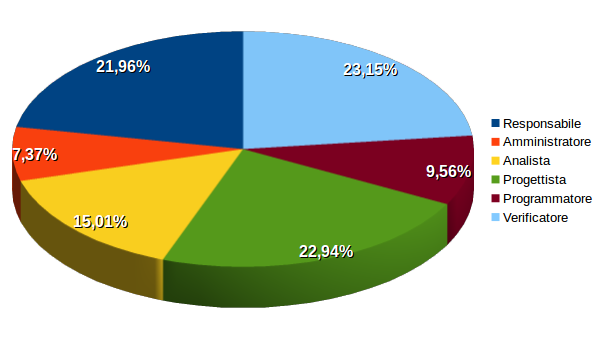
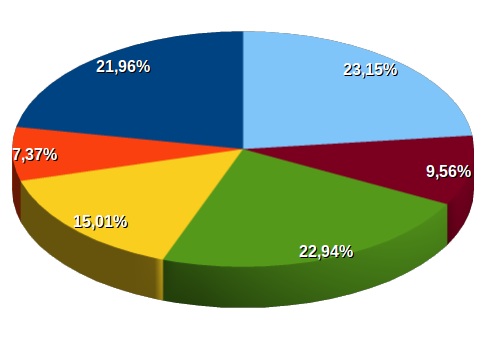
modpres fedes

diff --git a/4-RA/presentazioneRA/consuntivo.tex b/4-RA/presentazioneRA/consuntivo.tex
@@ -2,9 +2,12 @@
 \begin{frame}
 	\frametitle{Confronto ore preventivate e ore effettive per ruolo}	
 \begin{center}
-	\includegraphics[scale=0.30]{img/orePREVENTIVATEperruolo.png}
-	\qquad\qquad
-	\includegraphics[scale=0.30]{img/oreEFFETTIVEperruolo.png}
+	\includegraphics[scale=0.23]{img/orePREVENTIVATEperruolo.png}
+	\qquad
+	\includegraphics[scale=0.43]{img/legenda.png}
+	\qquad
+	\includegraphics[scale=0.23]{img/oreEFFETTIVEperruolo.png}
+
 \end{center}
 	
 	
@@ -14,9 +17,11 @@
 \begin{frame}
 	\frametitle{Confronto costo preventivato e costo effettivo per ruolo}	
 	\begin{center}
-		\includegraphics[scale=0.30]{img/costoEFFETTIVOperruolo.png}
-		\qquad\qquad
-		\includegraphics[scale=0.30]{img/costoPREVENTIVATOperruolo.png}
+		\includegraphics[scale=0.23]{img/costoPREVENTIVATOperruolo.png}
+		\qquad
+		\includegraphics[scale=0.43]{img/legenda.png}
+		\qquad
+		\includegraphics[scale=0.23]{img/costoEFFETTIVOperruolo.png}	
 	\end{center}
 	
 	
